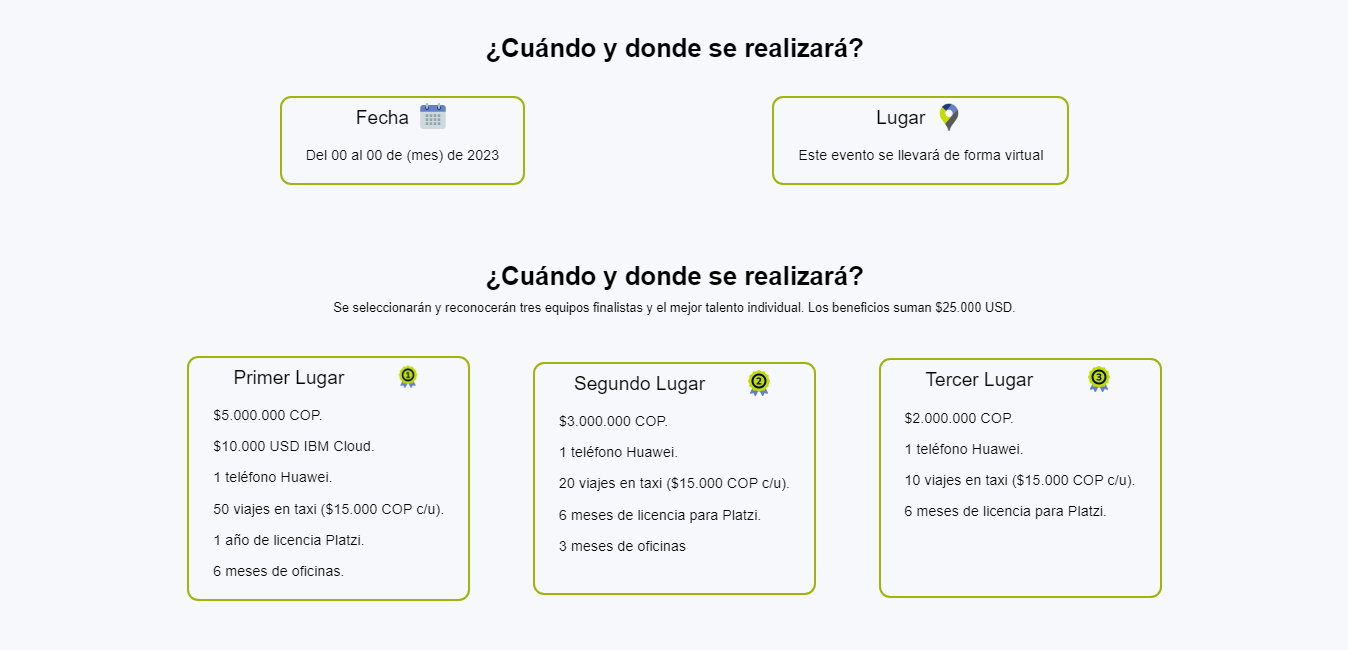
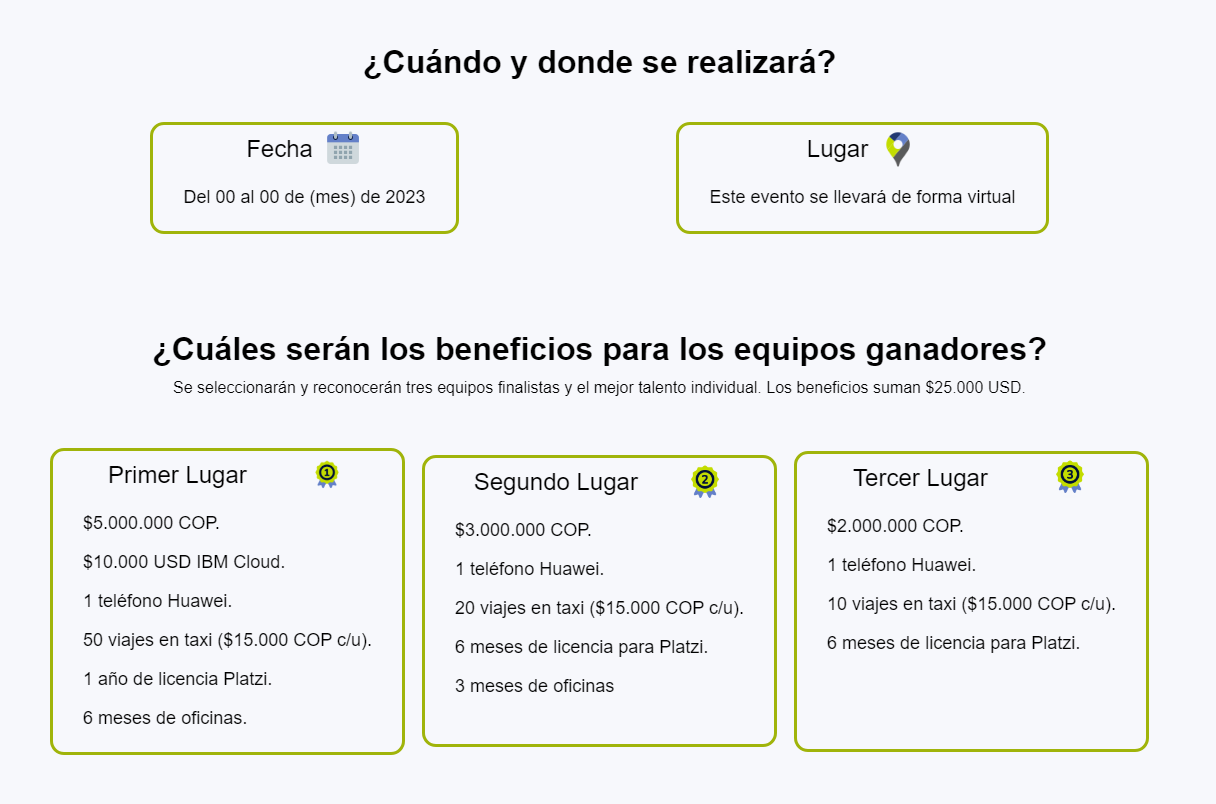
Modificando el archivo README.md

diff --git a/index.html b/index.html
@@ -189,7 +189,7 @@
             <!--sexta seccion de la lading page "¿Cuáles serán los beneficios para los equipos ganadores?"-->
             <section class="row">
                 <section class="section-row">
-                    <h2 class="section2-title-h2 tab">¿Cuándo y donde se realizará?</h2>
+                    <h2 class="section2-title-h2 tab">¿Cuáles serán los beneficios para los equipos ganadores?</h2>
                    
                     <p class="p-section6">
                         Se seleccionarán y reconocerán tres equipos finalistas y el mejor talento individual. Los beneficios suman $25.000 USD.
